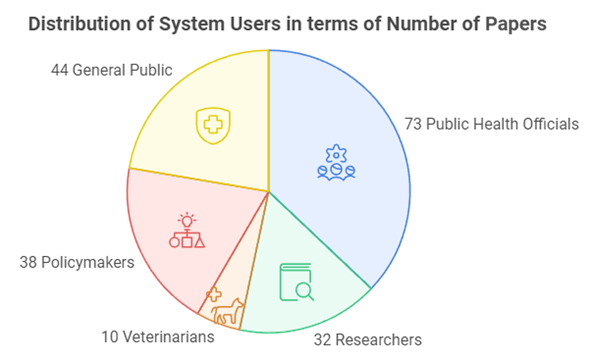
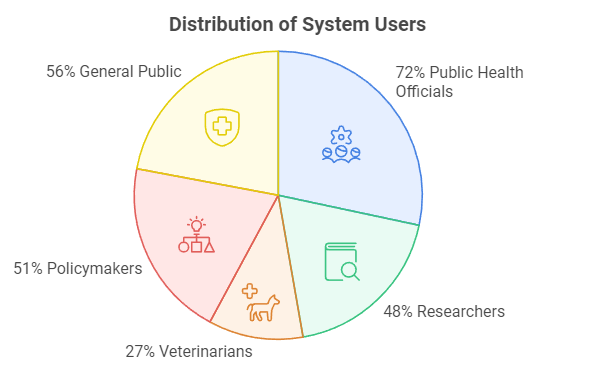
updated figures, data, references

diff --git a/index.html b/index.html
@@ -71,17 +71,19 @@
           <tr><th>Category</th><th>Percentage</th></tr>
         </thead>
         <tbody>
-          <tr><td>Detection</td><td>33%</td></tr>
-          <tr><td>Prediction/Forecasting</td><td>6%</td></tr>
-          <tr><td>Planning</td><td>38%</td></tr>
-          <tr><td>Mitigation/Response</td><td>6%</td></tr>
-          <tr><td>Monitoring</td><td>53%</td></tr>
+          <tr><td>Detection</td><td>16%</td></tr>
+          <tr><td>Prediction/Forecasting</td><td>3%</td></tr>
+          <tr><td>Planning</td><td>16%</td></tr>
+          <tr><td>Mitigation/Response</td><td>4%</td></tr>
+          <tr><td>Monitoring</td><td>32%</td></tr>
         </tbody>
       </table>
     </div>
 
     <!-- Charts Section -->
     <div id="charts-purpose" class="subsection" style="display: none;">
+      <img class="modalImage" src="Figures/PurposeSystem.png" alt="Purpose of the System Categories" width="400" height="300">
+      <figcaption>Purpose of the System Categorization with Descriptions</figcaption>
       <img class="modalImage" src="Figures/Purpose.png" alt="Purpose of The System" width="400" height="300">
       <figcaption>Purpose of the System Categorization by Percentage</figcaption>
       <img class="modalImage" src="Figures/enhance.jpg" alt="Enhancing One Health Systems" width="400" height="300">
@@ -113,12 +115,12 @@
           <tr><th>Category</th><th>Percentage</th></tr>
         </thead>
         <tbody>
-          <tr><td>COVID-19</td><td>51%</td></tr>
-          <tr><td>Zoonotic Diseases</td><td>18%</td></tr>
-          <tr><td>Vector-borne Diseases</td><td>9%</td></tr>
-          <tr><td>Neglected Tropical Diseases</td><td>9%</td></tr>
+          <tr><td>Emerging and Re-Emerging Diseases</td><td>57%</td></tr>
+          <tr><td>Zoonotic Diseases</td><td>39%</td></tr>
+          <tr><td>Vector-borne Diseases</td><td>16%</td></tr>
+          <tr><td>Neglected Tropical Diseases</td><td>11%</td></tr>
           <tr><td>Food Safety and Waterborne Diseases</td><td>10%</td></tr>
-          <tr><td>Antimicrobial Resistance</td><td>5%</td></tr>
+          <tr><td>Antimicrobial Resistance</td><td>11%</td></tr>
         </tbody>
       </table>
     </div>
@@ -195,10 +197,10 @@
         </thead>
         <tbody>
           <tr><td>Public Health Officials</td><td>72%</td></tr>
-          <tr><td>General Public</td><td>66%</td></tr>
+          <tr><td>General Public</td><td>56%</td></tr>
           <tr><td>Researchers</td><td>48%</td></tr>
-          <tr><td>Policymakers</td><td>18%</td></tr>
-          <tr><td>Veterinarians</td><td>13%</td></tr>
+          <tr><td>Policymakers</td><td>51%</td></tr>
+          <tr><td>Veterinarians</td><td>27%</td></tr>
         </tbody>
       </table>
     </div>
@@ -232,10 +234,10 @@
           <tr><th>Category</th><th>Percentage</th></tr>
         </thead>
         <tbody>
-          <tr><td>Analysis</td><td>93%</td></tr>
-          <tr><td>Data Collection</td><td>25%</td></tr>
+          <tr><td>Analysis</td><td>91%</td></tr>
+          <tr><td>Data Collection</td><td>32%</td></tr>
           <tr><td>Exploration</td><td>24%</td></tr>
-          <tr><td>Decision Making</td><td>19%</td></tr>
+          <tr><td>Decision Making</td><td>18%</td></tr>
           <tr><td>Collaboration</td><td>18%</td></tr>
         </tbody>
       </table>
@@ -394,7 +396,7 @@
         <tbody>
           <tr><td>Review/Taxonomy</td><td>32%</td></tr>
           <tr><td>System Description/Tools</td><td>22%</td></tr>
-          <tr><td>Opinion/Commentary</td><td>23%</td></tr>
+          <tr><td>Opinion/Commentary</td><td>26%</td></tr>
           <tr><td>Case Study</td><td>5%</td></tr>
           <tr><td>Methodology</td><td>19%</td></tr>
         </tbody>
@@ -434,8 +436,8 @@
           <tr><th>Category</th><th>Percentage</th></tr>
         </thead>
         <tbody>
-          <tr><td>Systems</td><td>72%</td></tr>
-          <tr><td>Dashboards</td><td>28%</td></tr>
+          <tr><td>Systems</td><td>75%</td></tr>
+          <tr><td>Dashboards</td><td>25%</td></tr>
         </tbody>
       </table>
     </div>
